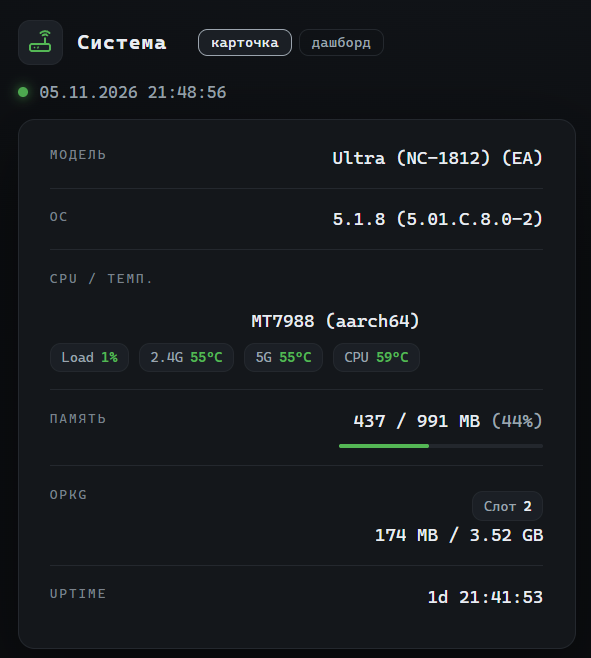
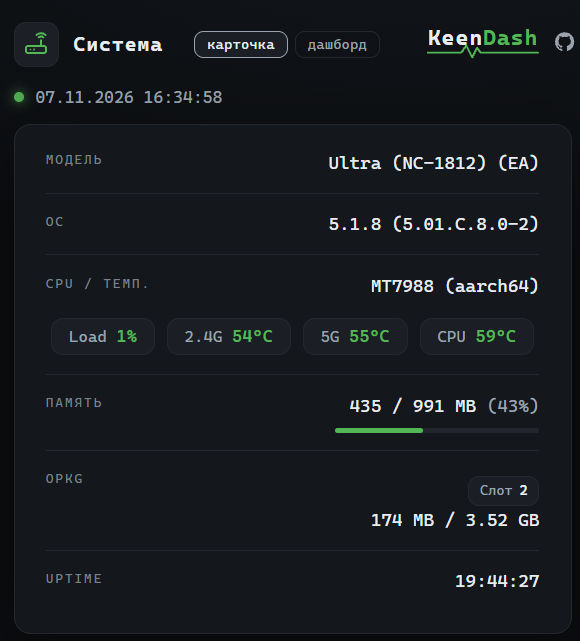
Обновление KeenDash

diff --git a/README.md b/README.md
@@ -1,4 +1,4 @@
-# KeenDash 🚀
+![Logo KeenDash](screenshots/logo.svg)
 
 Легковесный и красивый системный монитор для роутеров на базе KeeneticOS (в стиле Netdata).
 
@@ -10,12 +10,11 @@
 - ⚡ **Минимальная нагрузка**: Опрос датчиков раз в 3 секунды, загрузка CPU ~1% (Ultra NC-1812).
 - 💾 **Бережёт флешку**: Все данные (и текущие, и история графиков) пишутся в оперативную память (`/tmp/keendash`), а веб-сервер читает их через симлинк. Износ накопителя равен нулю.
 - 📊 **Графики на всех устройствах**: История графиков (3 часа) копится на роутере в оперативке построчным JSON (~260 КБ) и отдаётся одним файлом. Открой дашборд с телефона, планшета или нового браузера — график везде одинаковый.
+- 🌐 **Скорость сети RX/TX**: синяя и розовая кривые на отдельной правой шкале Мбит/с с авто-масштабированием.
+- 🖱 **Кликабельная легенда**: клик по разделу (ЦПУ / RAM / Темп. / Сеть) или отдельной кривой — показать/скрыть, двойной клик — оставить только выбранное. Выбор запоминается браузером.
 - 🧠 **Умный установщик**: KeenDash поднимает **свой собственный веб-сервер на выделенном порту 8321** (конфиг `/opt/etc/keendash/lighttpd.conf`). Если lighttpd в Entware нет — установщик сам его поставит. Совсем ничего не вышло — возьмёт встроенный в KeeneticOS busybox httpd. В конце сам проверяет по HTTP, что страница реально отдаётся.
 - 🔄 **Переживает перезагрузку**: хук `200-keendash.sh` при старте роутера проверяет порт и сам поднимает и демон, и веб-сервер.
 - 🗂 **Всё в своей папке**: Веб-страницы живут в подпапке `keendash` внутри корня веб-сервера, скрипты — в `/opt/etc/keendash`. Проект не перемешивается с системными файлами, чужие файлы не затирает и удаляется одной командой.
-- 🎨 **Два режима отображения**: 
-  - Компактная информационная карточка (`index.html`).
-  - Расширенный дашборд с круговыми индикаторами и динамическими графиками (`dash.html`).
 - 📦 **Установка и удаление одной командой**.
 
 ---
@@ -25,7 +24,7 @@
 
 ![Карточка KeenDash](screenshots/card.png)
 
-**Дашборд** (`dash.html`) — индикаторы и графики нагрузки, памяти и температур за 3 часа:
+**Дашборд** (`dash.html`) — индикаторы и графики нагрузки, памяти, температур и скорости сети (RX/TX) за 3 часа:
 
 ![Дашборд KeenDash](screenshots/dashboard.png)
 
